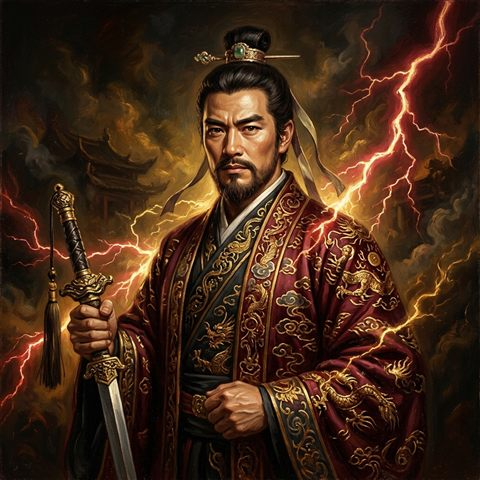
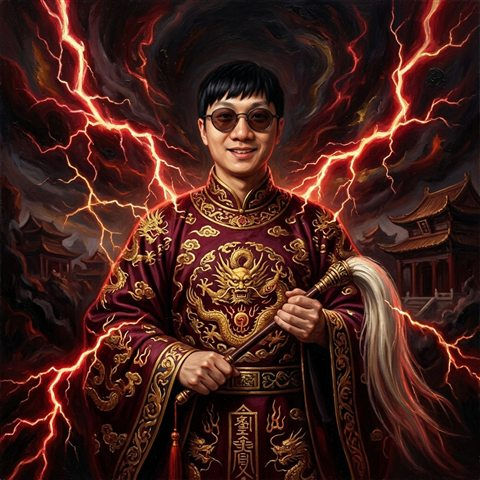
Update Liu Zhenren portrait based on user reference photo

diff --git a/public/js/scientists.js b/public/js/scientists.js
@@ -77,4 +77,4 @@ export const SCIENTISTS = [
 
 const MAP = Object.fromEntries(SCIENTISTS.map(s => [s.id, s]));
 export const getScientist = id => MAP[id];
-export const portraitUrl = id => `assets/portraits/${id}.jpg`;
+export const portraitUrl = id => `assets/portraits/${id}.jpg?v=2`;
